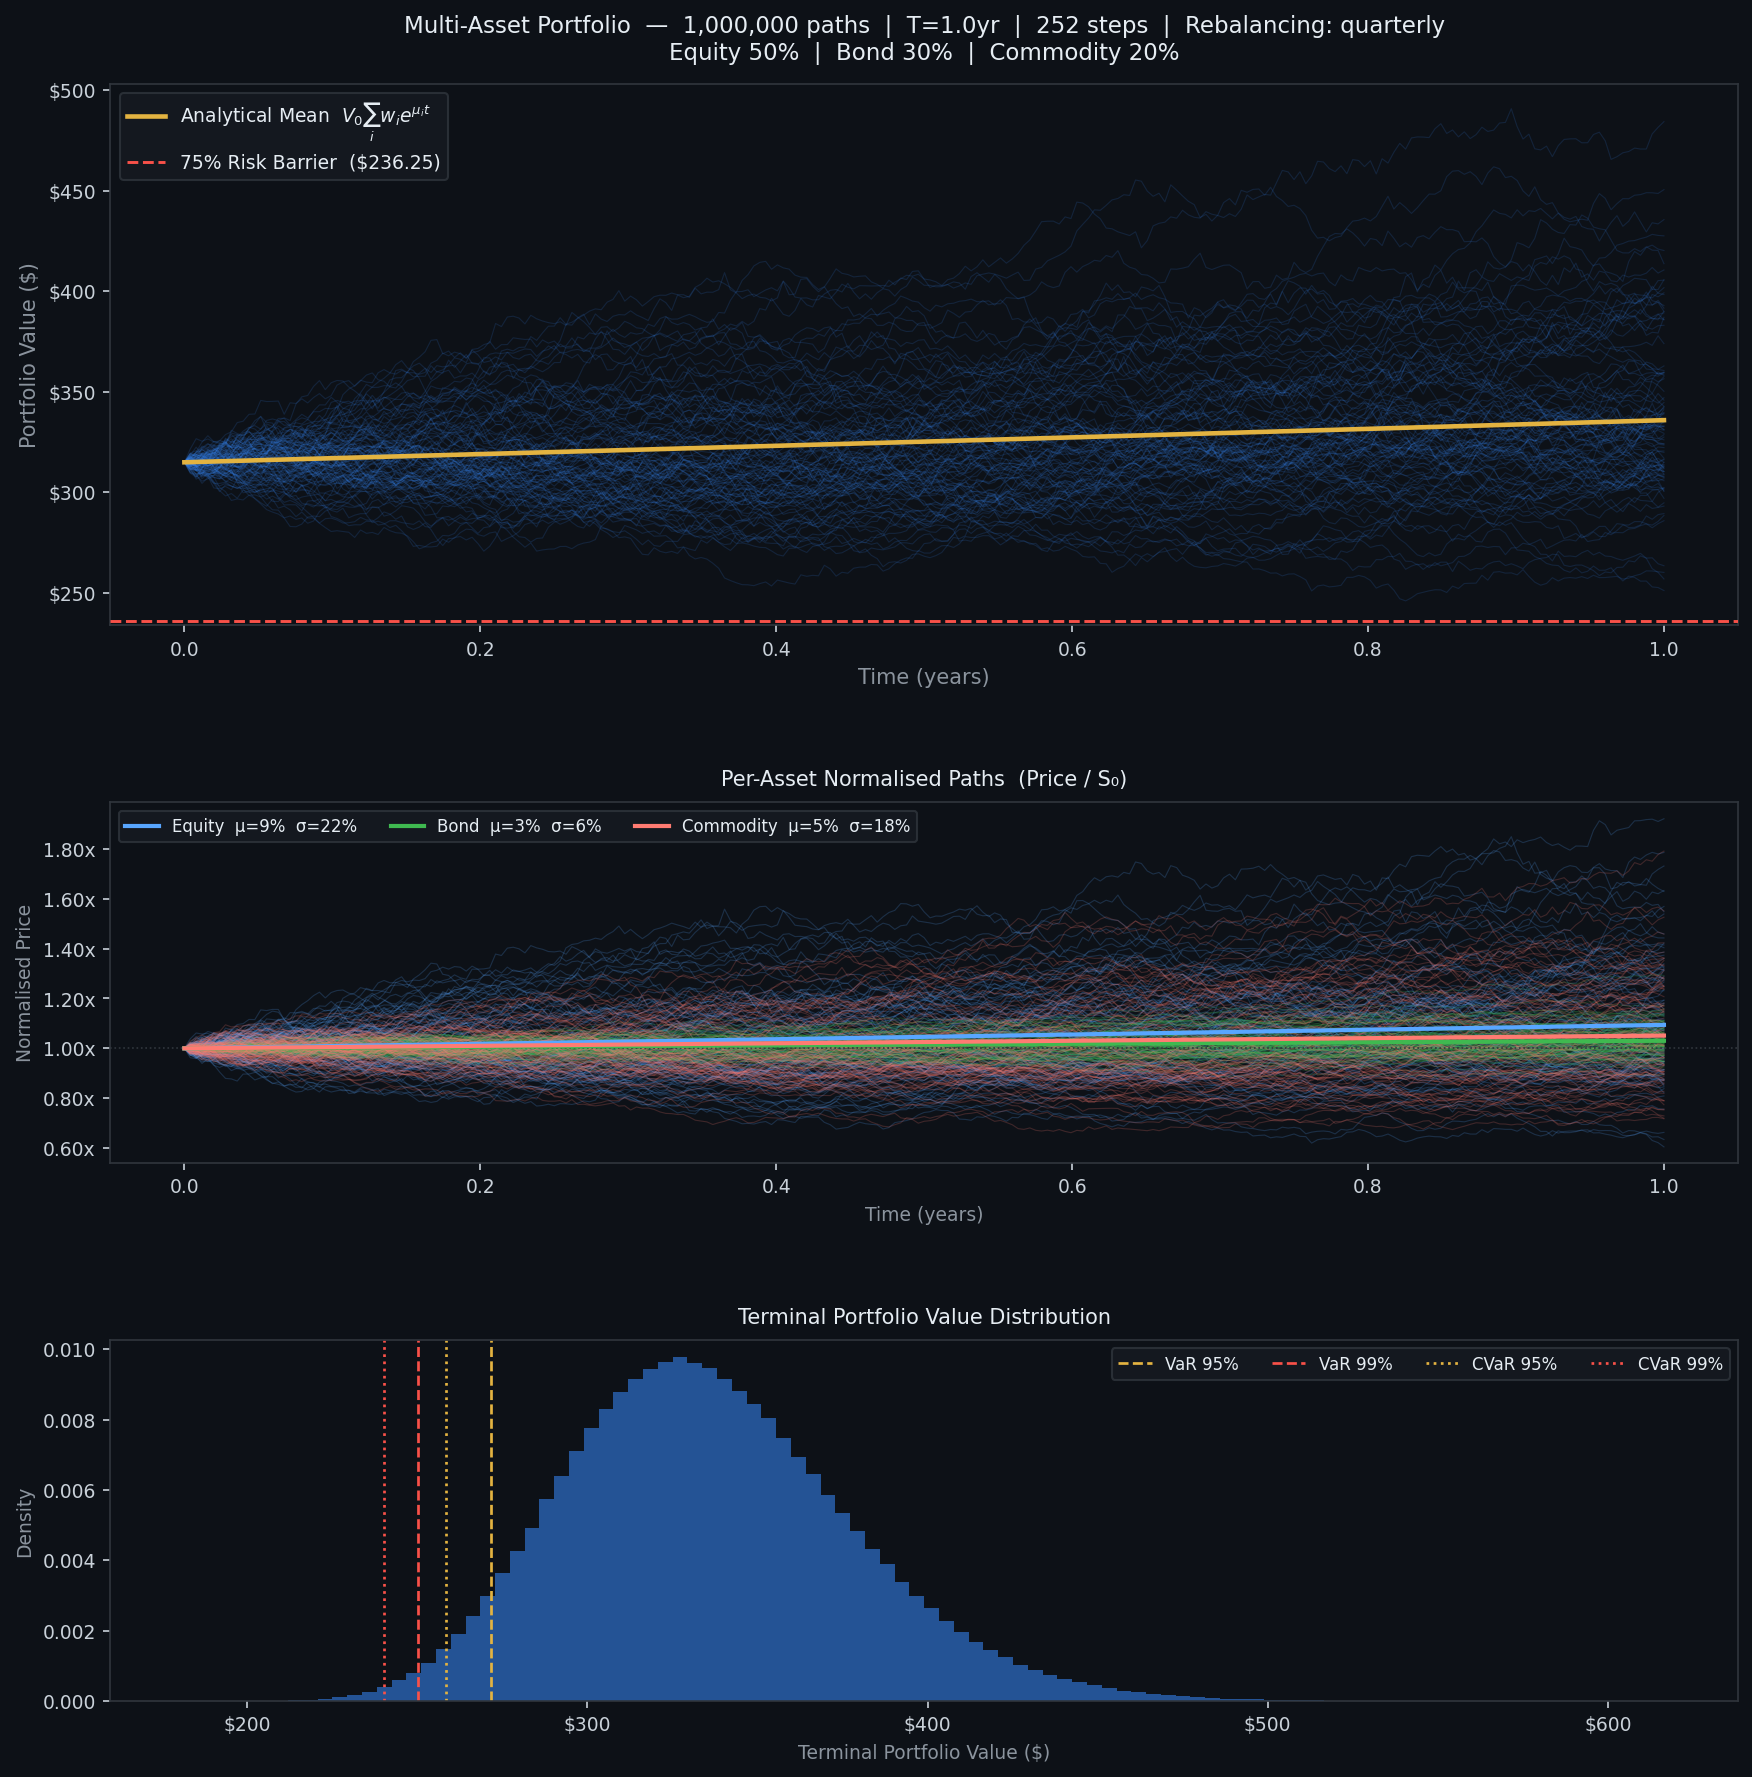
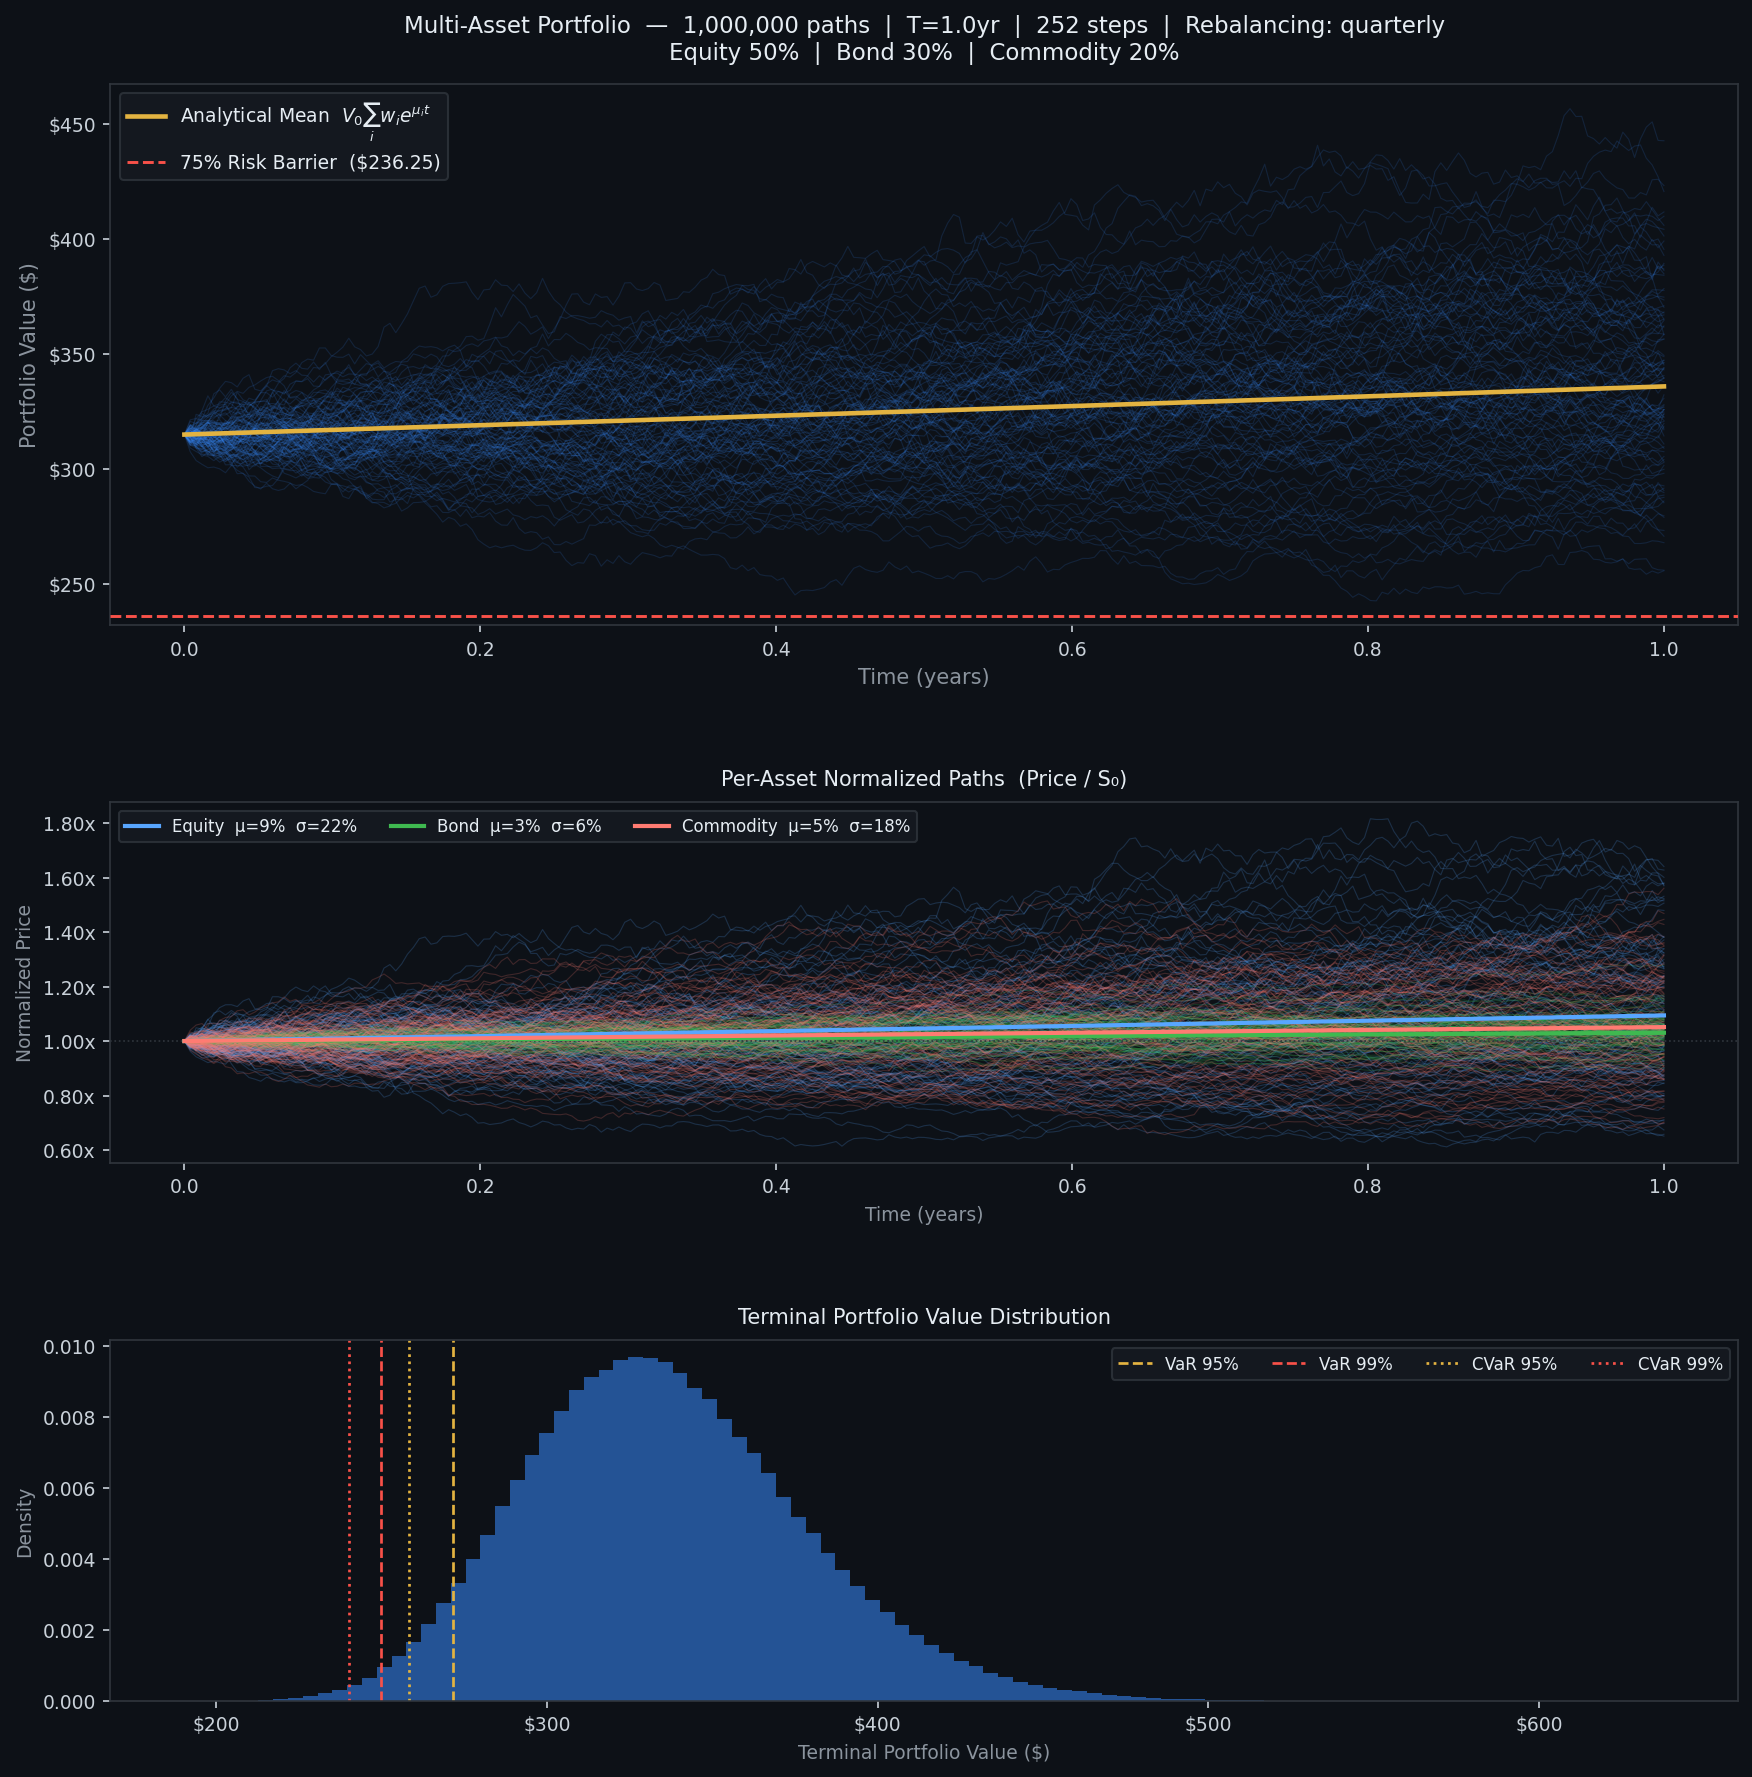
chore: minor code changes

diff --git a/simulator.py b/simulator.py
@@ -95,8 +95,8 @@ class GBMParams:
     Parameters
     ----------
     S0          : (n_assets,) initial asset prices
-    mu          : (n_assets,) annualised drift rates
-    sigma       : (n_assets,) annualised volatilities
+    mu          : (n_assets,) annualized drift rates
+    sigma       : (n_assets,) annualized volatilities
     weights     : (n_assets,) portfolio allocation weights, must sum to 1.0
     rho         : (n_assets, n_assets) asset correlation matrix
     T           : simulation horizon in years
@@ -171,7 +171,7 @@ def _worker(args: tuple) -> np.ndarray:
     Generate a slice of correlated multi-asset GBM price paths.
 
     Rebalancing is a portfolio-management decision applied during aggregation.
-    Asset prices follow GBM regardless of investor behaviour, so this function
+    Asset prices follow GBM regardless of investor behavior, so this function
     is identical with or without rebalancing enabled.
 
     Returns
@@ -194,8 +194,8 @@ def _worker(args: tuple) -> np.ndarray:
     # Correlate via Cholesky: Z @ L.T is a single BLAS gemm over the asset axis
     Z_corr = Z @ params.L.T                                    # (paths, steps, n_assets)
 
-    # Log-return increments; transpose to (paths, n_assets, steps)
-    increments = np.exp(drift + diffusion * Z_corr, dtype=params.dtype)
+    # GBM multiplicative price increments
+    increments = np.exp(drift + diffusion * Z_corr).astype(params.dtype)
     increments = increments.transpose(0, 2, 1)
 
     # Prepend S0 and take cumulative product along the time axis
@@ -224,12 +224,12 @@ def compute_portfolio_values(
     -------------------
     Share holdings are fixed at t=0:  shares_i = w_i * V_0 / S0_i
     V(t) = sum_i( shares_i * P_i(t) )
-    Implemented as a single vectorised broadcast + sum — one pass, no Python loop.
+    Implemented as a single vectorized broadcast + sum — one pass, no Python loop.
 
     With rebalancing (rebal_steps is not None)
     ------------------------------------------
     The timeline is divided into segments at each rebalancing date.  Within a
-    segment, holdings are constant, so portfolio value is fully vectorised
+    segment, holdings are constant, so portfolio value is fully vectorized
     across all paths.  At segment boundaries the share holdings are updated:
 
         shares_i_new = w_i * V(t_r) / P_i(t_r)
@@ -253,7 +253,7 @@ def compute_portfolio_values(
     n_paths, n_assets, n_timepoints = asset_paths.shape
     V0 = params.initial_portfolio_value
 
-    # ── No rebalancing: single-pass vectorised aggregation ───────────────
+    # ── No rebalancing: single-pass vectorized aggregation ───────────────
     if params.rebal_steps is None:
         allocs = (params.weights / params.S0).astype(np.float64)
         pv = (
@@ -261,7 +261,7 @@ def compute_portfolio_values(
         ).sum(axis=1)
         return (pv * V0).astype(params.dtype)
 
-    # ── Rebalancing: segment-by-segment, vectorised within each segment ──
+    # ── Rebalancing: segment-by-segment, vectorized within each segment ──
     # Initial share holdings: all paths start identically
     shares = np.tile(
         (params.weights * V0 / params.S0).astype(np.float64),
@@ -325,7 +325,7 @@ class RiskMetrics:
 
 def compute_risk(portfolio_values: np.ndarray, params: GBMParams) -> RiskMetrics:
     """
-    Vectorised portfolio-level risk metrics. Zero Python loops.
+    Vectorized portfolio-level risk metrics. Zero Python loops.
 
     VaR_alpha  = percentile(losses, alpha * 100)
     CVaR_alpha = mean( losses[ losses >= VaR_alpha ] )
@@ -380,10 +380,10 @@ def plot_simulation(
     Three-panel report saved to disk (headless, Agg backend).
 
     Panel 1 : 100 sampled portfolio value paths, analytical mean, 75% barrier.
-    Panel 2 : Per-asset normalised paths (P / S0) with per-asset analytical means.
+    Panel 2 : Per-asset normalized paths (P / S0) with per-asset analytical means.
     Panel 3 : Terminal portfolio value histogram with VaR / CVaR markers.
 
-    Path sampling uses a single vectorised fancy-index; no Python loop.
+    Path sampling uses a single vectorized fancy-index; no Python loop.
     rasterized=True on dense trajectory layers keeps the file size manageable.
     """
     import matplotlib
@@ -458,13 +458,13 @@ def plot_simulation(
     ax_port.legend(facecolor=SURFACE, edgecolor=BORDER, labelcolor=TEXT, fontsize=9)
     ax_port.yaxis.set_major_formatter(mticker.FormatStrFormatter("$%.0f"))
 
-    # ── Panel 2: Per-asset normalised paths ─────────────────────────────
+    # ── Panel 2: Per-asset normalized paths ─────────────────────────────
     for i in range(params.n_assets):
         colour       = _ASSET_COLOURS[i % len(_ASSET_COLOURS)]
         asset_sample = asset_paths[idx, i, :]
-        normalised   = asset_sample / params.S0[i].astype(params.dtype)
+        normalized   = asset_sample / params.S0[i].astype(params.dtype)
         ax_assets.plot(
-            t_axis, normalised.T,
+            t_axis, normalized.T,
             color=colour, alpha=0.20, linewidth=0.55, rasterized=True,
         )
         ax_assets.plot(
@@ -475,11 +475,11 @@ def plot_simulation(
 
     ax_assets.axhline(1.0, color=BORDER, linewidth=0.8, linestyle=":")
     ax_assets.set_title(
-        "Per-Asset Normalised Paths  (Price / S₀)",
+        "Per-Asset Normalized Paths  (Price / S₀)",
         color=TEXT, fontsize=10, pad=8,
     )
     ax_assets.set_xlabel("Time (years)", color=MUTED, fontsize=9)
-    ax_assets.set_ylabel("Normalised Price", color=MUTED, fontsize=9)
+    ax_assets.set_ylabel("Normalized Price", color=MUTED, fontsize=9)
     ax_assets.legend(
         facecolor=SURFACE, edgecolor=BORDER, labelcolor=TEXT,
         fontsize=8, ncol=params.n_assets,